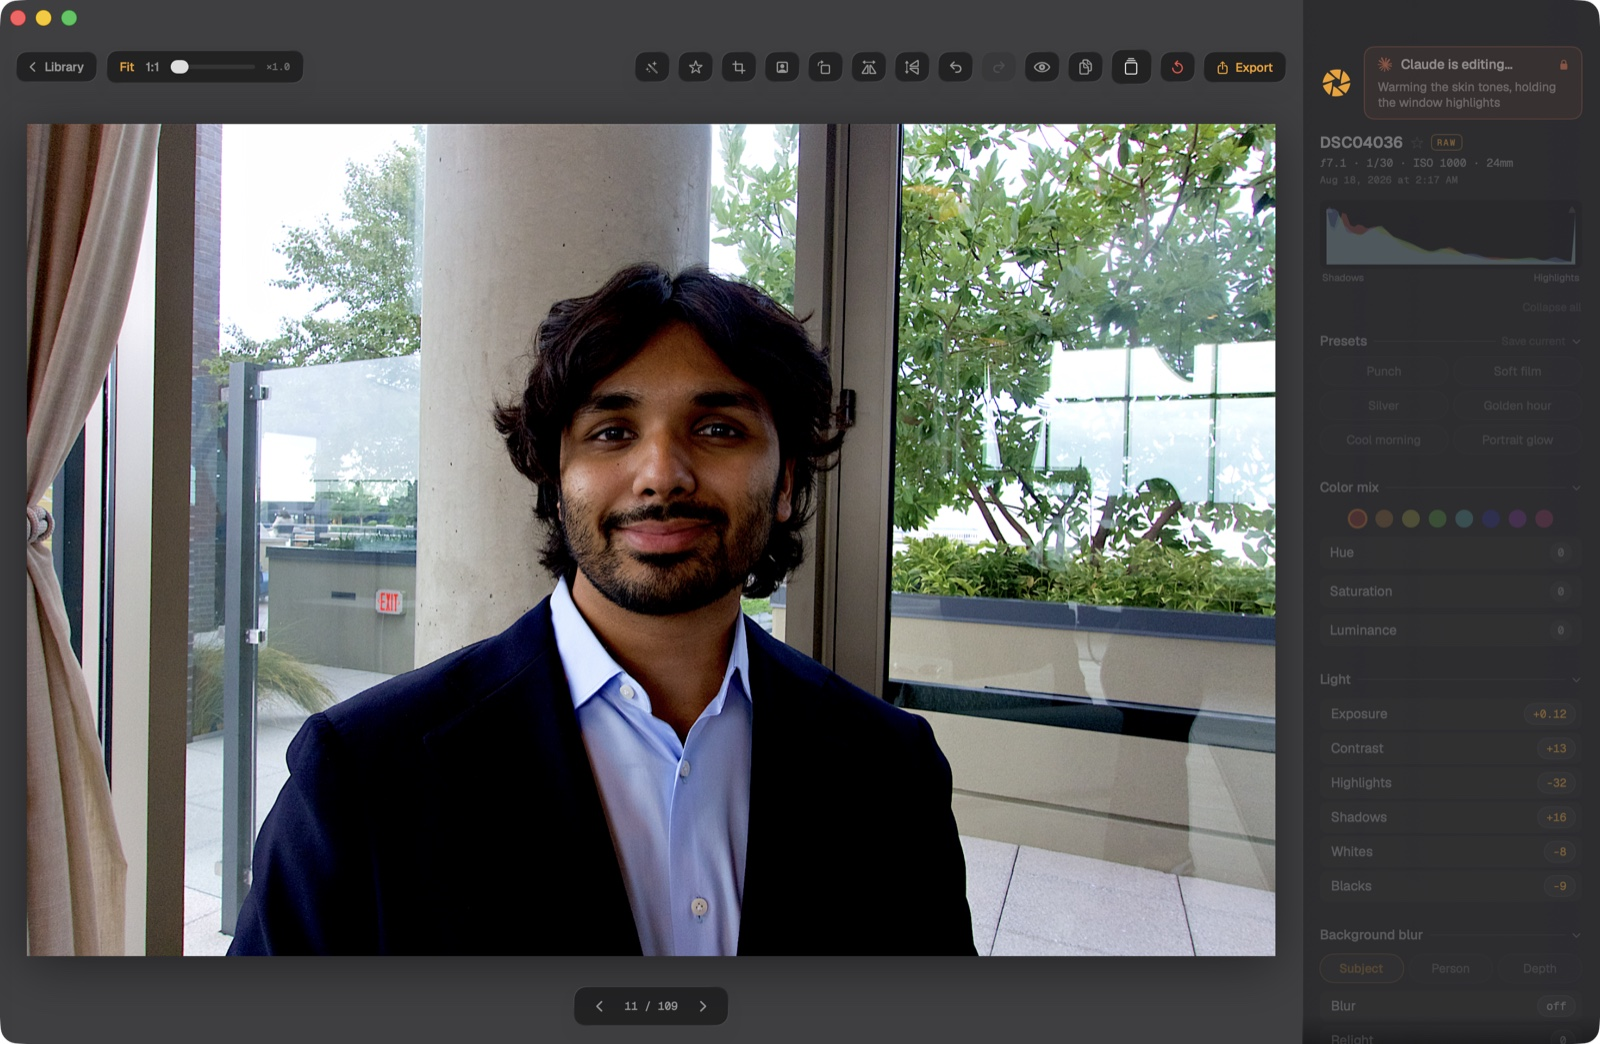
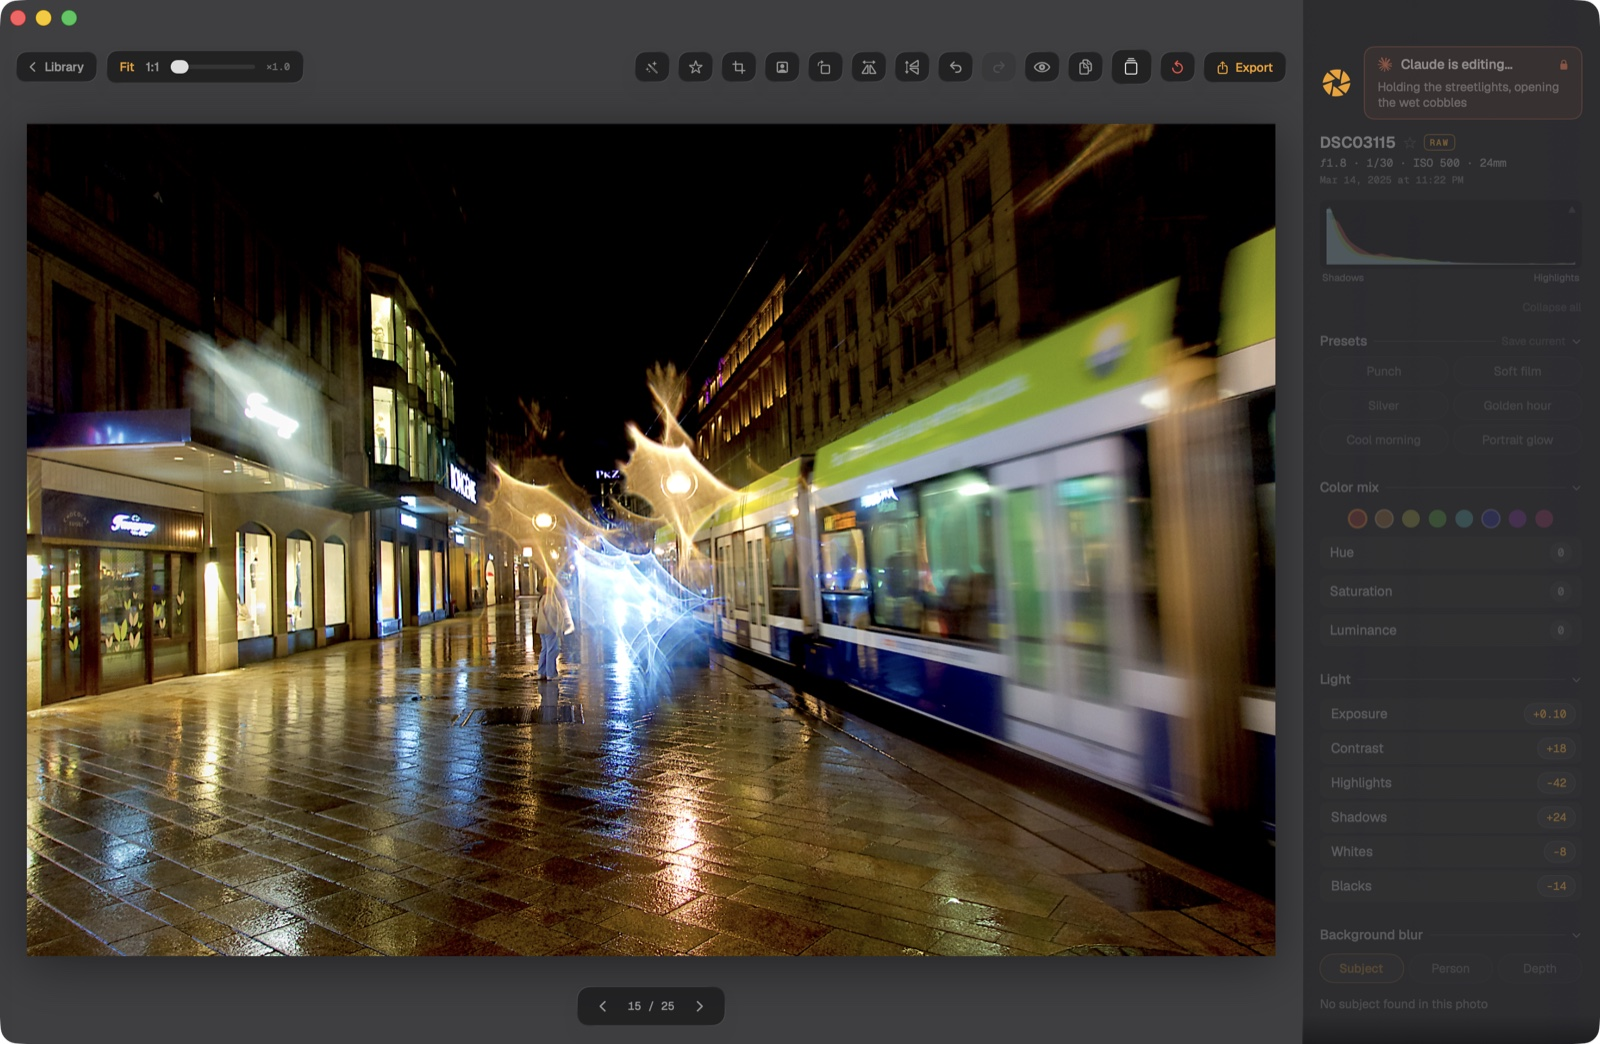
Screenshots: non-identifying frames from the Geneva and museum sets

diff --git a/README.md b/README.md
@@ -70,6 +70,8 @@ Open a folder of RAW files and Chiaro lays them out as a justified gallery —
 or a grid, or a sortable Finder-style list. Star the keepers, filter to them,
 and press Return to edit.
 
+![The library, grouped by day](docs/screenshots/library.jpg)
+
 - **Light and color** — exposure, contrast, highlights, shadows, whites, blacks,
   temperature, tint, vibrance, saturation, plus a tone curve and an eight-band
   color mixer
@@ -85,6 +87,8 @@ and press Return to edit.
   the image statistics, weighted toward faces when it finds them
 - **Presets** — six built in, plus anything you save
 - **Export** — full-resolution JPEG, HEIF, or 16-bit TIFF
+
+![Depth-plane blur on a landscape](docs/screenshots/blur.jpg)
 
 Adjustments are scrubbed directly on the photo: click a value, drag across the
 image, and feel the detent when you cross neutral. Hold `\` to see the original.
